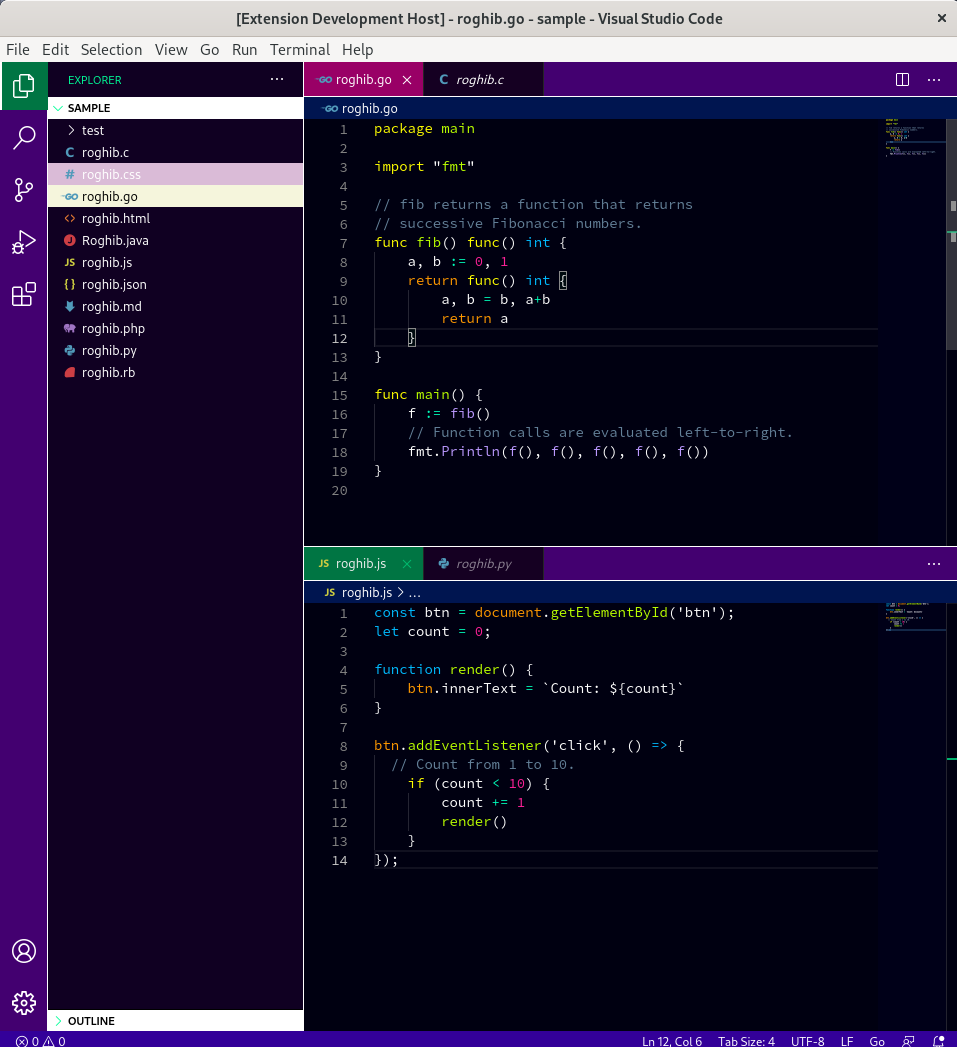
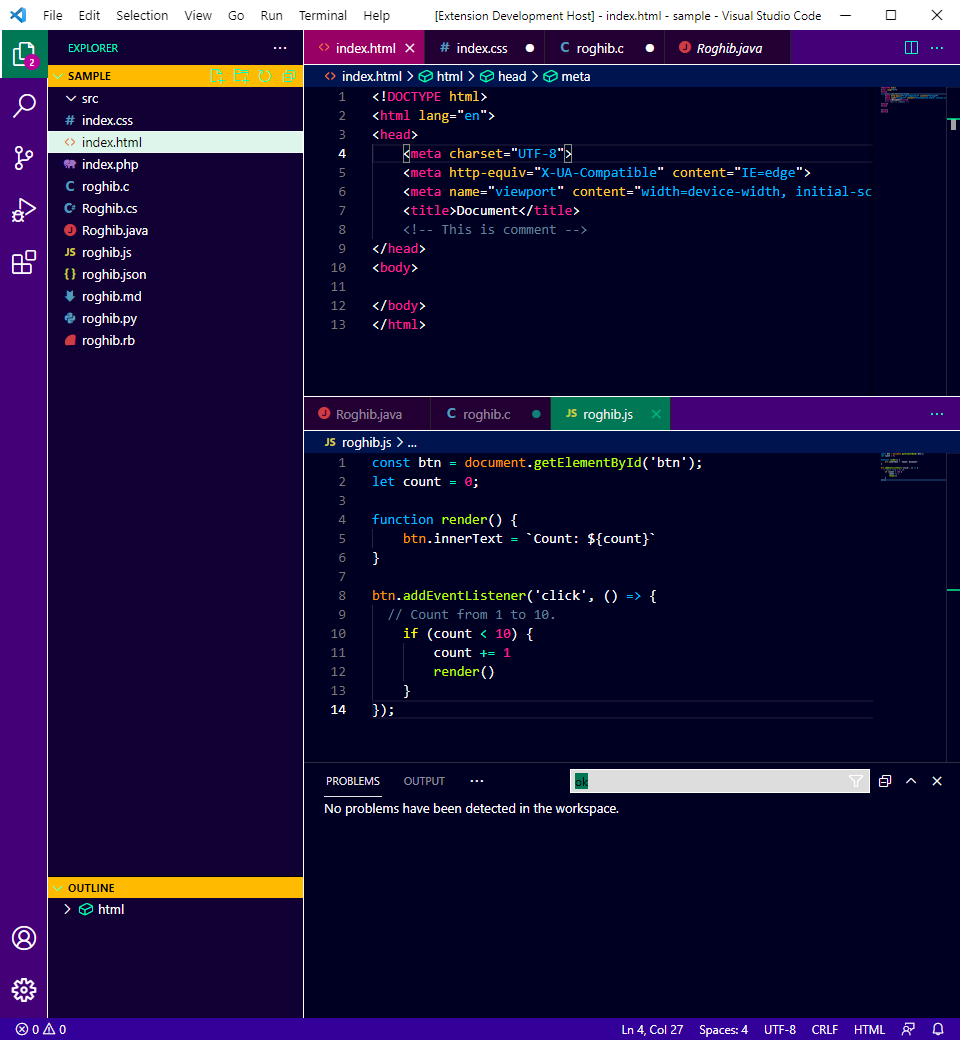
OK

diff --git a/CHANGELOG.md b/CHANGELOG.md
@@ -2,6 +2,12 @@
 
 All notable changes to the "Nani Color" extension will be documented in this file.
 
+## [1.0.9] - 2021-05-07
+### Added
+- Toolbar background
+- Button border
+- New Style
+
 ## [1.0.8] - 2021-04-28
 ### Added
 - Blackpink
